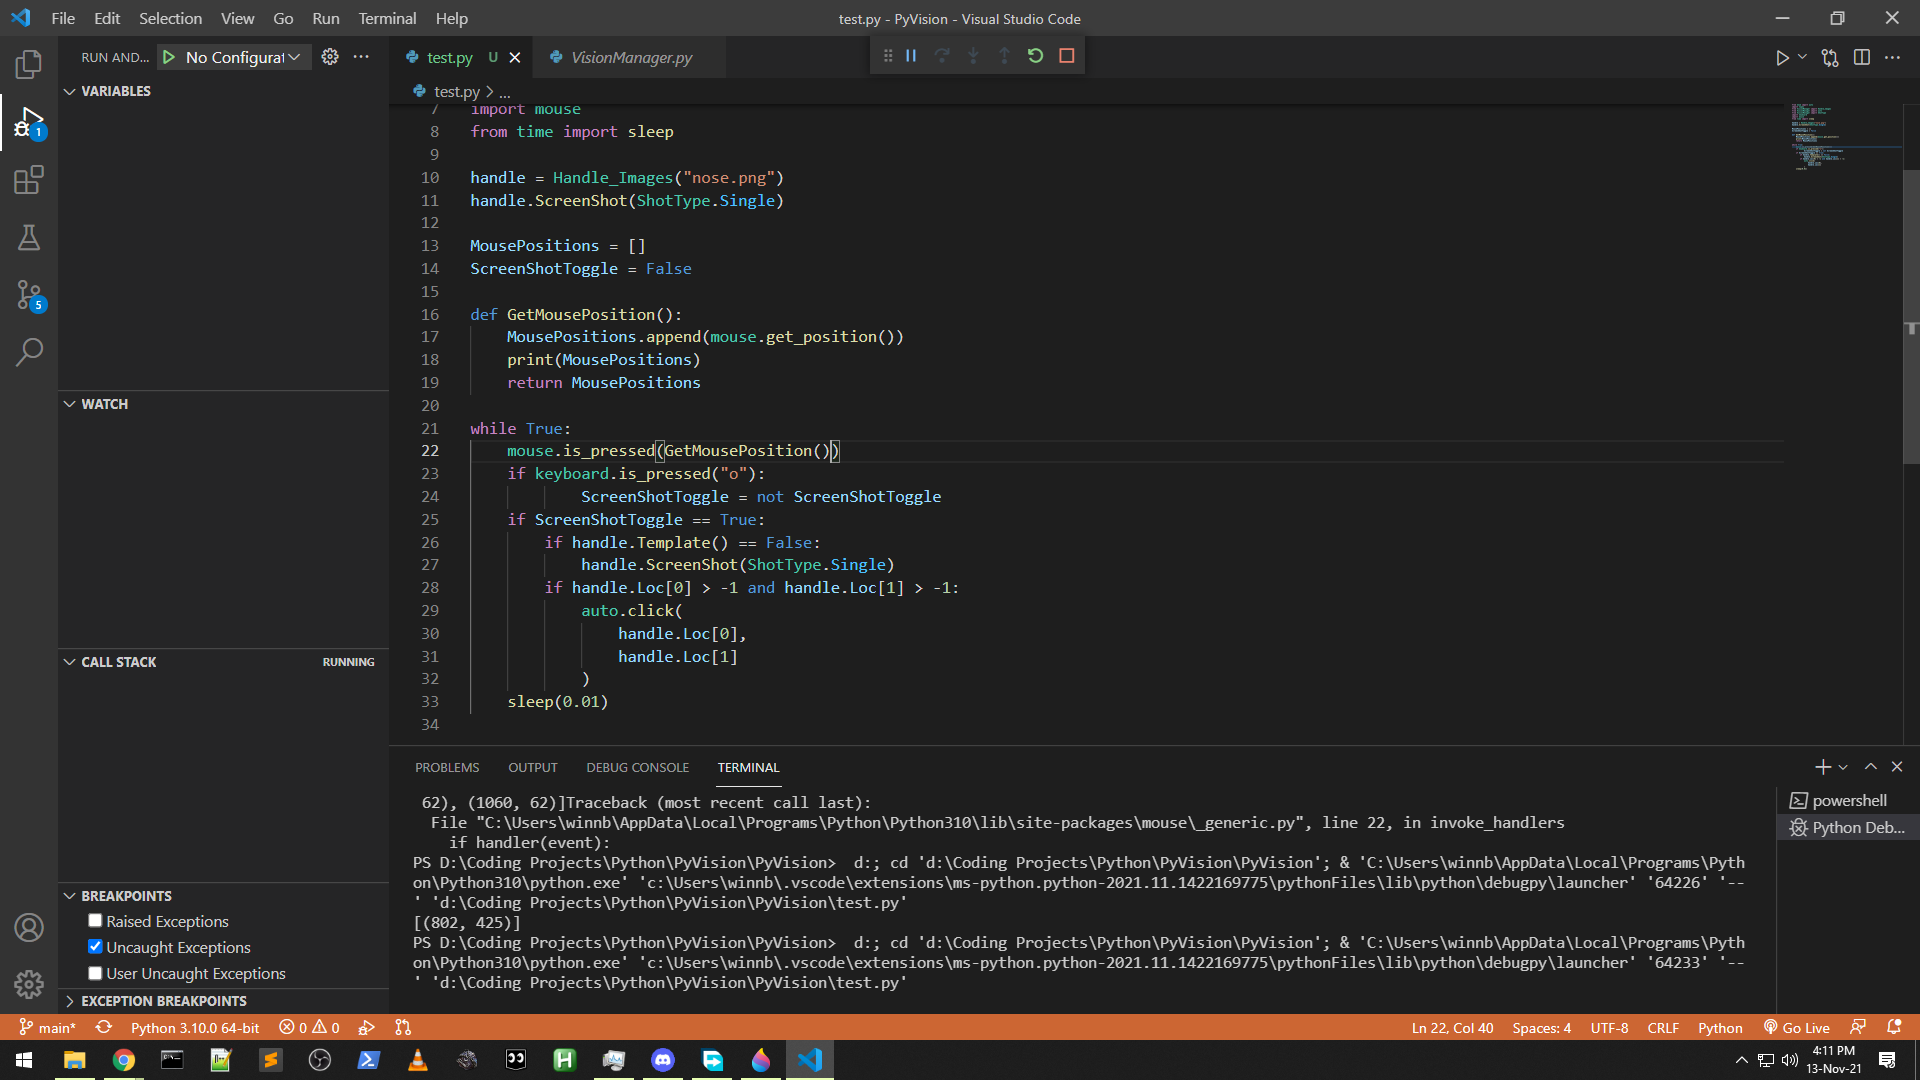
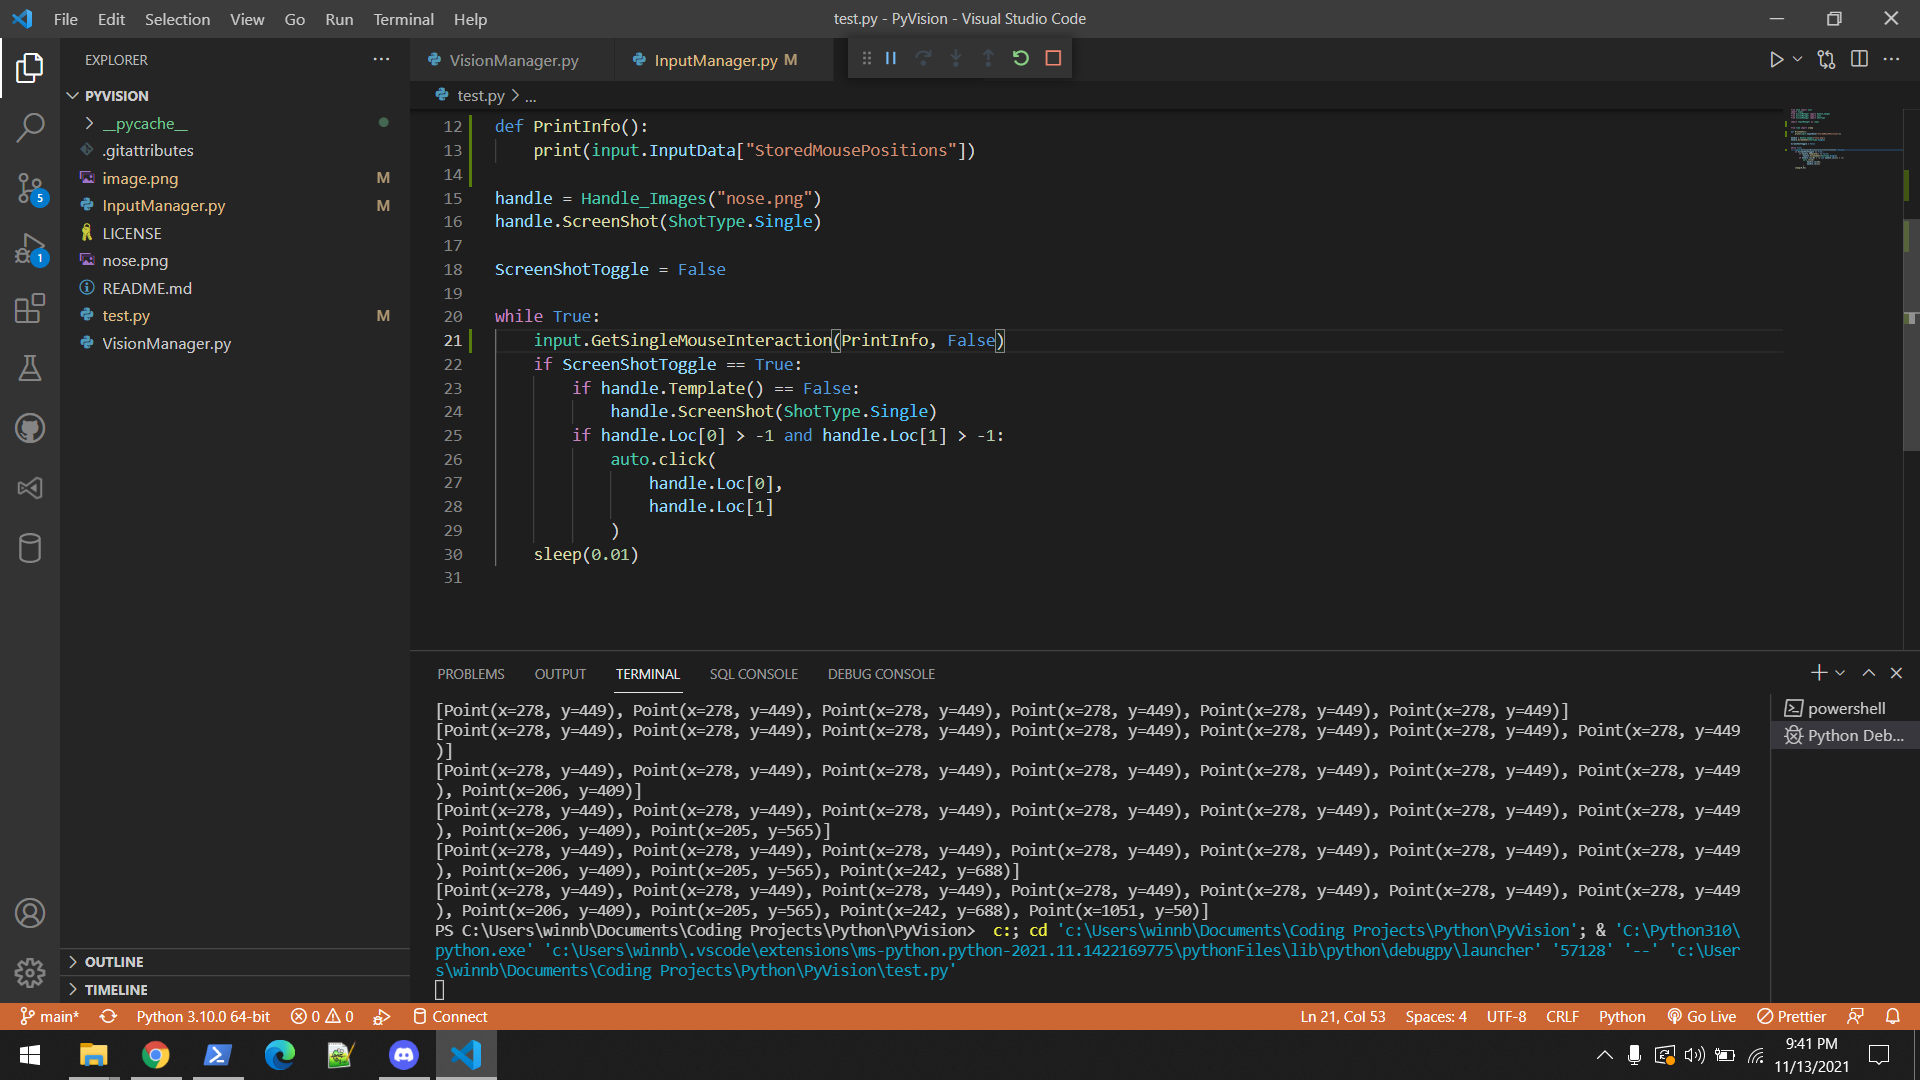
Large Aditions to Inputmanager

diff --git a/InputManager.py b/InputManager.py
@@ -1,5 +1,49 @@
-import keyboard
-import mouse
 import pyautogui as auto
+import pydirectinput as dauto
+import win32api
+
+
+from time import sleep
+
+global InputData
+InputData = {"StoredMousePositions": [], "MouseHeldDown":False, "MouseClicked": False}
+
+Accounts = {"Name1": ("Email", "Password"), "Name2": ("Email", "Password")}
+
+def MouseClick(DirectX=False, x=-1, y=-1):
+    if x and y > 0:
+        if DirectX:
+            dauto.click(x,y)
+        else:
+            auto.click(x,y)
+    else:
+        if DirectX:
+            dauto.click()
+        else:
+            auto.click()
+
+def GetSingleMouseInteraction(Callback=(), SavePosition=False):
+    M = win32api.GetKeyState(0x01)
+    if M < 0:
+        InputData["MouseHeldDown"] = True
+        InputData["MouseClicked"] = True
+    else:
+        InputData["MouseHeldDown"] = False
+    if InputData["MouseHeldDown"] == False and InputData["MouseClicked"] == True:
+        InputData["MouseClicked"] = False
+        GetMousePosition(SavePosition)
+        Callback()
+
+def GetMousePosition(SavePosition=False):
+    Pos = auto.position()
+    if SavePosition:
+        InputData["StoredMousePositions"].append(Pos)
+    return Pos
+
+def InputType(Key, DirectX=False):
+    if DirectX:
+        dauto.press(Key, 1, 0)
+    else:
+        auto.press(Key, 1 , 0)
 
 

diff --git a/test.py b/test.py
@@ -4,7 +4,13 @@ from VisionManager import Handle_Images
 from VisionManager import auto
 from VisionManager import ShotType
 
+import InputManager as input
+
+
 from time import sleep
+
+def PrintInfo():
+    print(input.InputData["StoredMousePositions"])
 
 handle = Handle_Images("nose.png")
 handle.ScreenShot(ShotType.Single)
@@ -12,6 +18,7 @@ handle.ScreenShot(ShotType.Single)
 ScreenShotToggle = False  
 
 while True:
+    input.GetSingleMouseInteraction(PrintInfo, False)
     if ScreenShotToggle == True:
         if handle.Template() == False:
             handle.ScreenShot(ShotType.Single)
